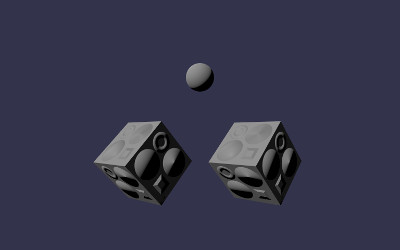
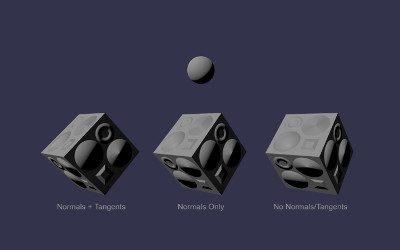
Updated normal demo pages with no normals test

diff --git a/Demos/Normals/index.js b/Demos/Normals/index.js
@@ -7,25 +7,31 @@ function createScene(engine) {
     material.bumpTexture = new BABYLON.Texture("/Assets/normal.png", scene, false, false);
     material.invertNormalMapX = true;
 
-    createPlane("planeWithTangentsLH", scene, material, new BABYLON.Vector3(-1.1, +1.1, 0), true, true, false);
-    createPlane("planeWithoutTangentsLH", scene, material, new BABYLON.Vector3(-1.1, -1.1, 0), true, false, false);
-    createPlane("planeWithTangentsRH", scene, material, new BABYLON.Vector3(+1.1, +1.1, 0), true, true, true);
-    createPlane("planeWithoutTangentsRH", scene, material, new BABYLON.Vector3(+1.1, -1.1, 0), true, false, true);
+    // Left-handed meshes
+    createPlane("plane1", scene, material, new BABYLON.Vector3(-2.2, +1.2, 0),  true,  true, false, "Normals + Tangents (LH)");
+    createPlane("plane2", scene, material, new BABYLON.Vector3(+0.0, +1.2, 0),  true, false, false, "Normals Only (LH)");
+    createPlane("plane3", scene, material, new BABYLON.Vector3(+2.2, +1.2, 0), false, false, false, "No Normals/Tangents (LH)");
+
+    // Right-handed meshes
+    createPlane("plane4", scene, material, new BABYLON.Vector3(-2.2, -1.2, 0),  true,  true,  true, "Normals + Tangents (RH)");
+    createPlane("plane5", scene, material, new BABYLON.Vector3(+0.0, -1.2, 0),  true, false,  true, "Normals Only (RH)");
+    createPlane("plane6", scene, material, new BABYLON.Vector3(+2.2, -1.2, 0), false, false,  true, "No Normals/Tangents (RH)");
 
     var light = new BABYLON.DirectionalLight("light", new BABYLON.Vector3(1, -1, 1), scene);
 
-    var sphere = BABYLON.Mesh.CreateSphere("sphere", 16, 0.1, scene);
+    var sphere = BABYLON.Mesh.CreateSphere("sphere", 16, 0.2, scene);
     sphere.material = new BABYLON.PBRMaterial("spherMaterial", scene);
     sphere.material.metallic = 0;
+    sphere.position.x = -3.5;
 
-    var camera = new BABYLON.ArcRotateCamera("camera", -Math.PI / 2, Math.PI / 2, 6);
+    var camera = new BABYLON.ArcRotateCamera("camera", -Math.PI / 2, Math.PI / 2, 7);
     camera.wheelPrecision = 100;
     camera.attachControl(scene.getEngine().getRenderingCanvas());
 
     return scene;
 }
 
-function createPlane(name, scene, material, center, normals, tangents, rightHanded) {
+function createPlane(name, scene, material, center, normals, tangents, rightHanded, caption) {
     var plane = new BABYLON.Mesh(name, scene);
     plane.material = material.clone();
     plane.position.addInPlace(center);
@@ -34,6 +40,10 @@ function createPlane(name, scene, material, center, normals, tangents, rightHand
 
     for (var i = 0; i < vertexData.uvs.length; i += 2) {
         vertexData.uvs[i + 1] = 1 - vertexData.uvs[i + 1];
+    }
+
+    if (!normals) {
+        vertexData.normals = undefined;
     }
 
     if (tangents) {
@@ -50,8 +60,10 @@ function createPlane(name, scene, material, center, normals, tangents, rightHand
             vertexData.positions[i + 2] = -vertexData.positions[i + 2];
         }
 
-        for (var i = 0; i < vertexData.normals.length; i += 3) {
-            vertexData.normals[i + 2] = -vertexData.normals[i + 2];
+        if (vertexData.normals) {
+            for (var i = 0; i < vertexData.normals.length; i += 3) {
+                vertexData.normals[i + 2] = -vertexData.normals[i + 2];
+            }
         }
 
         if (vertexData.tangents) {
@@ -67,6 +79,10 @@ function createPlane(name, scene, material, center, normals, tangents, rightHand
     }
 
     vertexData.applyToMesh(plane);
+
+    var label = createLabel(scene, caption);
+    label.position = center.clone();
+    label.position.y -= 1.1;
 
     addLines(scene, plane);
 }
@@ -120,4 +136,17 @@ function addLines(scene, mesh) {
         lines.bitangents.color = new BABYLON.Color3(0, 1, 0);
         lines.bitangents.parent = mesh;
     }
+}
+
+function createLabel(scene, text) {
+    var dynamicTexture = new BABYLON.DynamicTexture("DynamicTexture", 512, scene, true);
+    dynamicTexture.hasAlpha = true;
+    dynamicTexture.drawText(text, null, null, "36px Arial", "white", "transparent");
+    var plane = BABYLON.Mesh.CreatePlane("TextPlane", 2, scene);
+    plane.material = new BABYLON.StandardMaterial("TextPlaneMaterial", scene);
+    plane.material.backFaceCulling = false;
+    plane.material.specularColor = BABYLON.Color3.Black();
+    plane.material.diffuseTexture = dynamicTexture;
+    plane.material.useAlphaFromDiffuseTexture = true;
+    return plane;
 }

diff --git a/Demos/GLTFNormals/index.js b/Demos/GLTFNormals/index.js
@@ -12,13 +12,14 @@ function createScene(engine) {
     camera.wheelPrecision = 100;
     camera.attachControl(scene.getEngine().getRenderingCanvas());
 
-    loadModel(scene, "TestCube.gltf", new BABYLON.Vector3(-1, -0.5, 0));
-    loadModel(scene, "TestCubeNoTangents.gltf", new BABYLON.Vector3(1, -0.5, 0));
+    loadModel(scene, "TestCube1.gltf", new BABYLON.Vector3(-2, -0.5, 0), "Normals + Tangents");
+    loadModel(scene, "TestCube2.gltf", new BABYLON.Vector3(+0, -0.5, 0), "Normals Only");
+    loadModel(scene, "TestCube3.gltf", new BABYLON.Vector3(+2, -0.5, 0), "No Normals/Tangents");
 
     return scene;
 }
 
-function loadModel(scene, name, center) {
+function loadModel(scene, name, center, caption) {
     BABYLON.SceneLoader.ImportMesh("", "/Assets/TestCube/", name, scene, function (meshes) {
         var root = new BABYLON.Mesh("root", scene);
         meshes.forEach(mesh => {
@@ -29,5 +30,22 @@ function loadModel(scene, name, center) {
 
         root.position = center;
         root.rotation = new BABYLON.Vector3(Math.PI / 4, Math.PI / 4, 0);
+
+        var label = createLabel(scene, caption);
+        label.position = center.clone();
+        label.position.y -= 1;
     });
+}
+
+function createLabel(scene, text) {
+    var dynamicTexture = new BABYLON.DynamicTexture("DynamicTexture", 512, scene, true);
+    dynamicTexture.hasAlpha = true;
+    dynamicTexture.drawText(text, null, null, "36px Arial", "white", "transparent");
+    var plane = BABYLON.Mesh.CreatePlane("TextPlane", 2, scene);
+    plane.material = new BABYLON.StandardMaterial("TextPlaneMaterial", scene);
+    plane.material.backFaceCulling = false;
+    plane.material.specularColor = BABYLON.Color3.Black();
+    plane.material.diffuseTexture = dynamicTexture;
+    plane.material.useAlphaFromDiffuseTexture = true;
+    return plane;
 }
